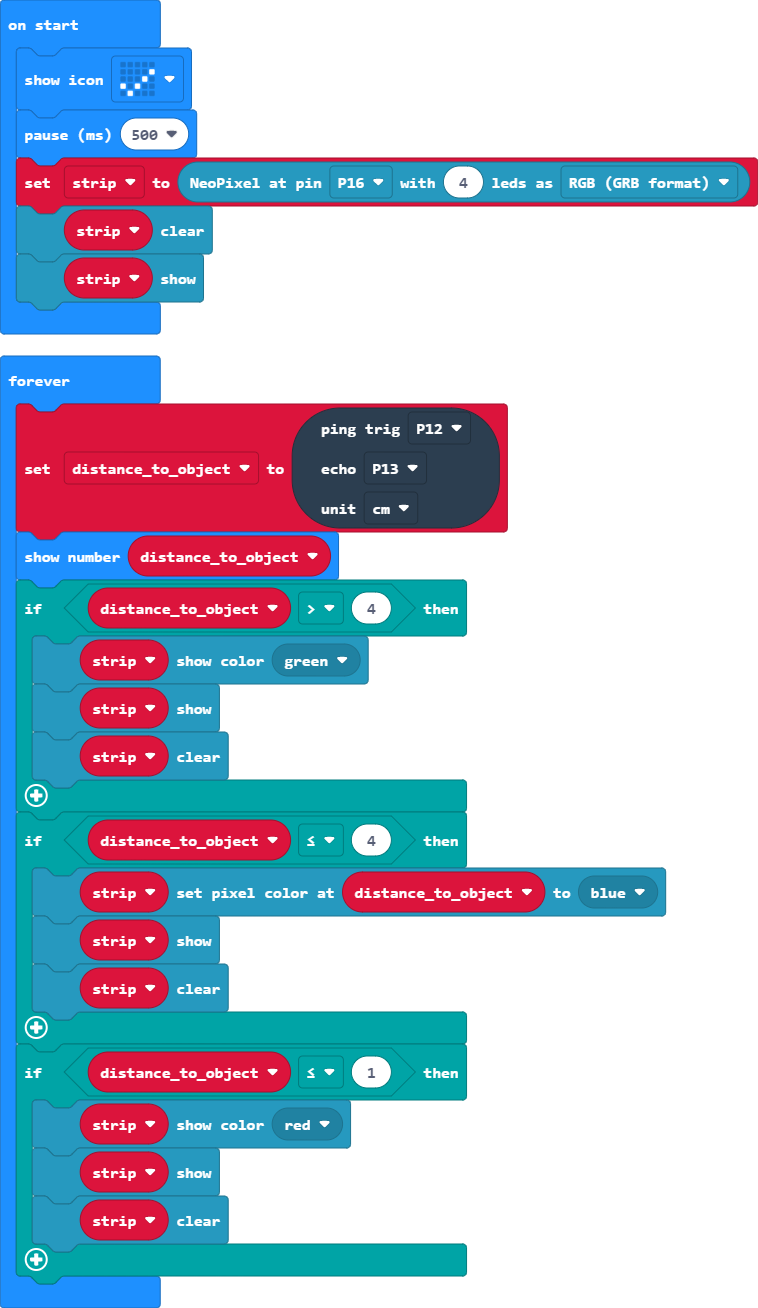
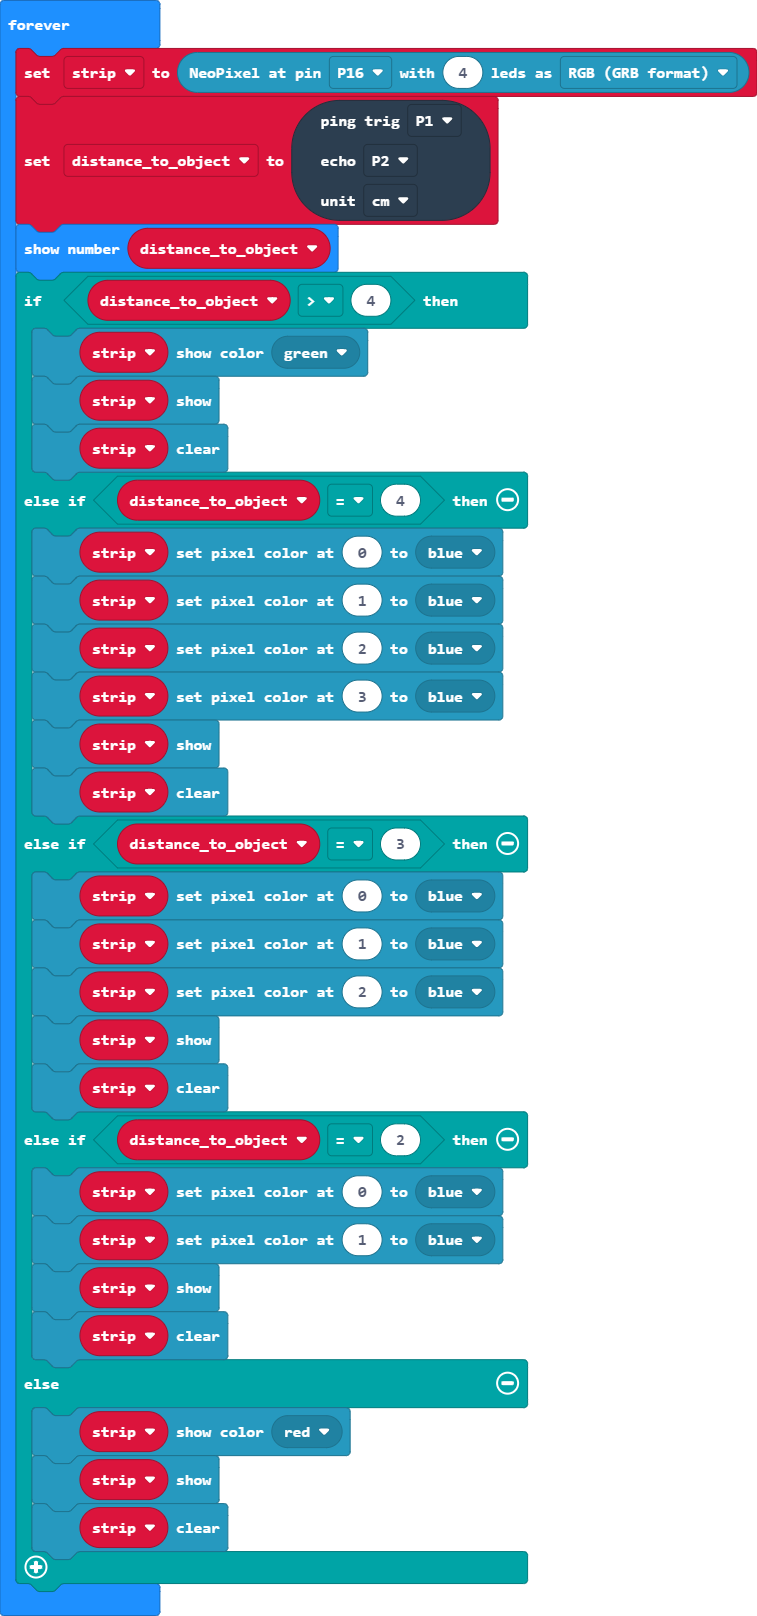
Update pxt.json, main.blocks, main.ts, main.py

diff --git a/main.ts b/main.ts
@@ -1,13 +1,10 @@
+let strip: neopixel.Strip = null
 let distance_to_object = 0
-basic.showIcon(IconNames.Yes)
-basic.pause(500)
-let strip = neopixel.create(DigitalPin.P16, 4, NeoPixelMode.RGB)
-strip.clear()
-strip.show()
 basic.forever(function () {
+    strip = neopixel.create(DigitalPin.P16, 4, NeoPixelMode.RGB)
     distance_to_object = sonar.ping(
-    DigitalPin.P12,
-    DigitalPin.P13,
+    DigitalPin.P1,
+    DigitalPin.P2,
     PingUnit.Centimeters
     )
     basic.showNumber(distance_to_object)
@@ -15,13 +12,25 @@ basic.forever(function () {
         strip.showColor(neopixel.colors(NeoPixelColors.Green))
         strip.show()
         strip.clear()
-    }
-    if (distance_to_object <= 4) {
-        strip.setPixelColor(distance_to_object, neopixel.colors(NeoPixelColors.Blue))
+    } else if (distance_to_object == 4) {
+        strip.setPixelColor(0, neopixel.colors(NeoPixelColors.Blue))
+        strip.setPixelColor(1, neopixel.colors(NeoPixelColors.Blue))
+        strip.setPixelColor(2, neopixel.colors(NeoPixelColors.Blue))
+        strip.setPixelColor(3, neopixel.colors(NeoPixelColors.Blue))
         strip.show()
         strip.clear()
-    }
-    if (distance_to_object <= 1) {
+    } else if (distance_to_object == 3) {
+        strip.setPixelColor(0, neopixel.colors(NeoPixelColors.Blue))
+        strip.setPixelColor(1, neopixel.colors(NeoPixelColors.Blue))
+        strip.setPixelColor(2, neopixel.colors(NeoPixelColors.Blue))
+        strip.show()
+        strip.clear()
+    } else if (distance_to_object == 2) {
+        strip.setPixelColor(0, neopixel.colors(NeoPixelColors.Blue))
+        strip.setPixelColor(1, neopixel.colors(NeoPixelColors.Blue))
+        strip.show()
+        strip.clear()
+    } else {
         strip.showColor(neopixel.colors(NeoPixelColors.Red))
         strip.show()
         strip.clear()

diff --git a/main.py b/main.py
@@ -1,0 +1,24 @@
+distance_to_object = 0
+basic.show_icon(IconNames.YES)
+basic.pause(500)
+strip = neopixel.create(DigitalPin.P0, 4, NeoPixelMode.RGB)
+strip.clear()
+strip.show()
+
+def on_forever():
+    global distance_to_object
+    distance_to_object = sonar.ping(DigitalPin.P1, DigitalPin.P2, PingUnit.CENTIMETERS)
+    basic.show_number(distance_to_object)
+    if distance_to_object > 4:
+        strip.show_color(neopixel.colors(NeoPixelColors.GREEN))
+        strip.show()
+        strip.clear()
+    if distance_to_object <= 4:
+        strip.set_pixel_color(distance_to_object, neopixel.colors(NeoPixelColors.BLUE))
+        strip.show()
+        strip.clear()
+    if distance_to_object <= 1:
+        strip.show_color(neopixel.colors(NeoPixelColors.RED))
+        strip.show()
+        strip.clear()
+basic.forever(on_forever)
